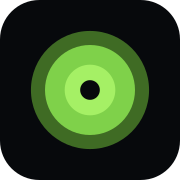
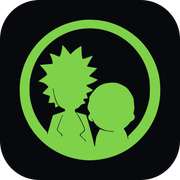
feat(web): usa o ícone da Rick and Morty API e linka o site no README
O ícone passa a ser a silhueta do site da API, no lugar do portal
geométrico. A arte de lá é preta sobre transparente, o que some na aba
escura do navegador — o site deles é claro, o nosso não. Então ela é
recolorida para verde portal sobre void, que fica visível nos dois casos
e combina com a paleta.

O README ganha o endereço da aplicação publicada logo no topo.

diff --git a/README.md b/README.md
@@ -1,5 +1,7 @@
 # Elenco por Episódio - Rick and Morty
 
+### **[rick-and-morty-elenco.vercel.app](https://rick-and-morty-elenco.vercel.app/)**
+
 Simples assim, você informa um número de um episódio e veja todo o elenco em ordem alfabética!
 
 Web em Next.js, Mobile em Flutter e um BFF em Fastify, sobre o mesmo núcleo construído em _arquitetura limpa_. Dados
